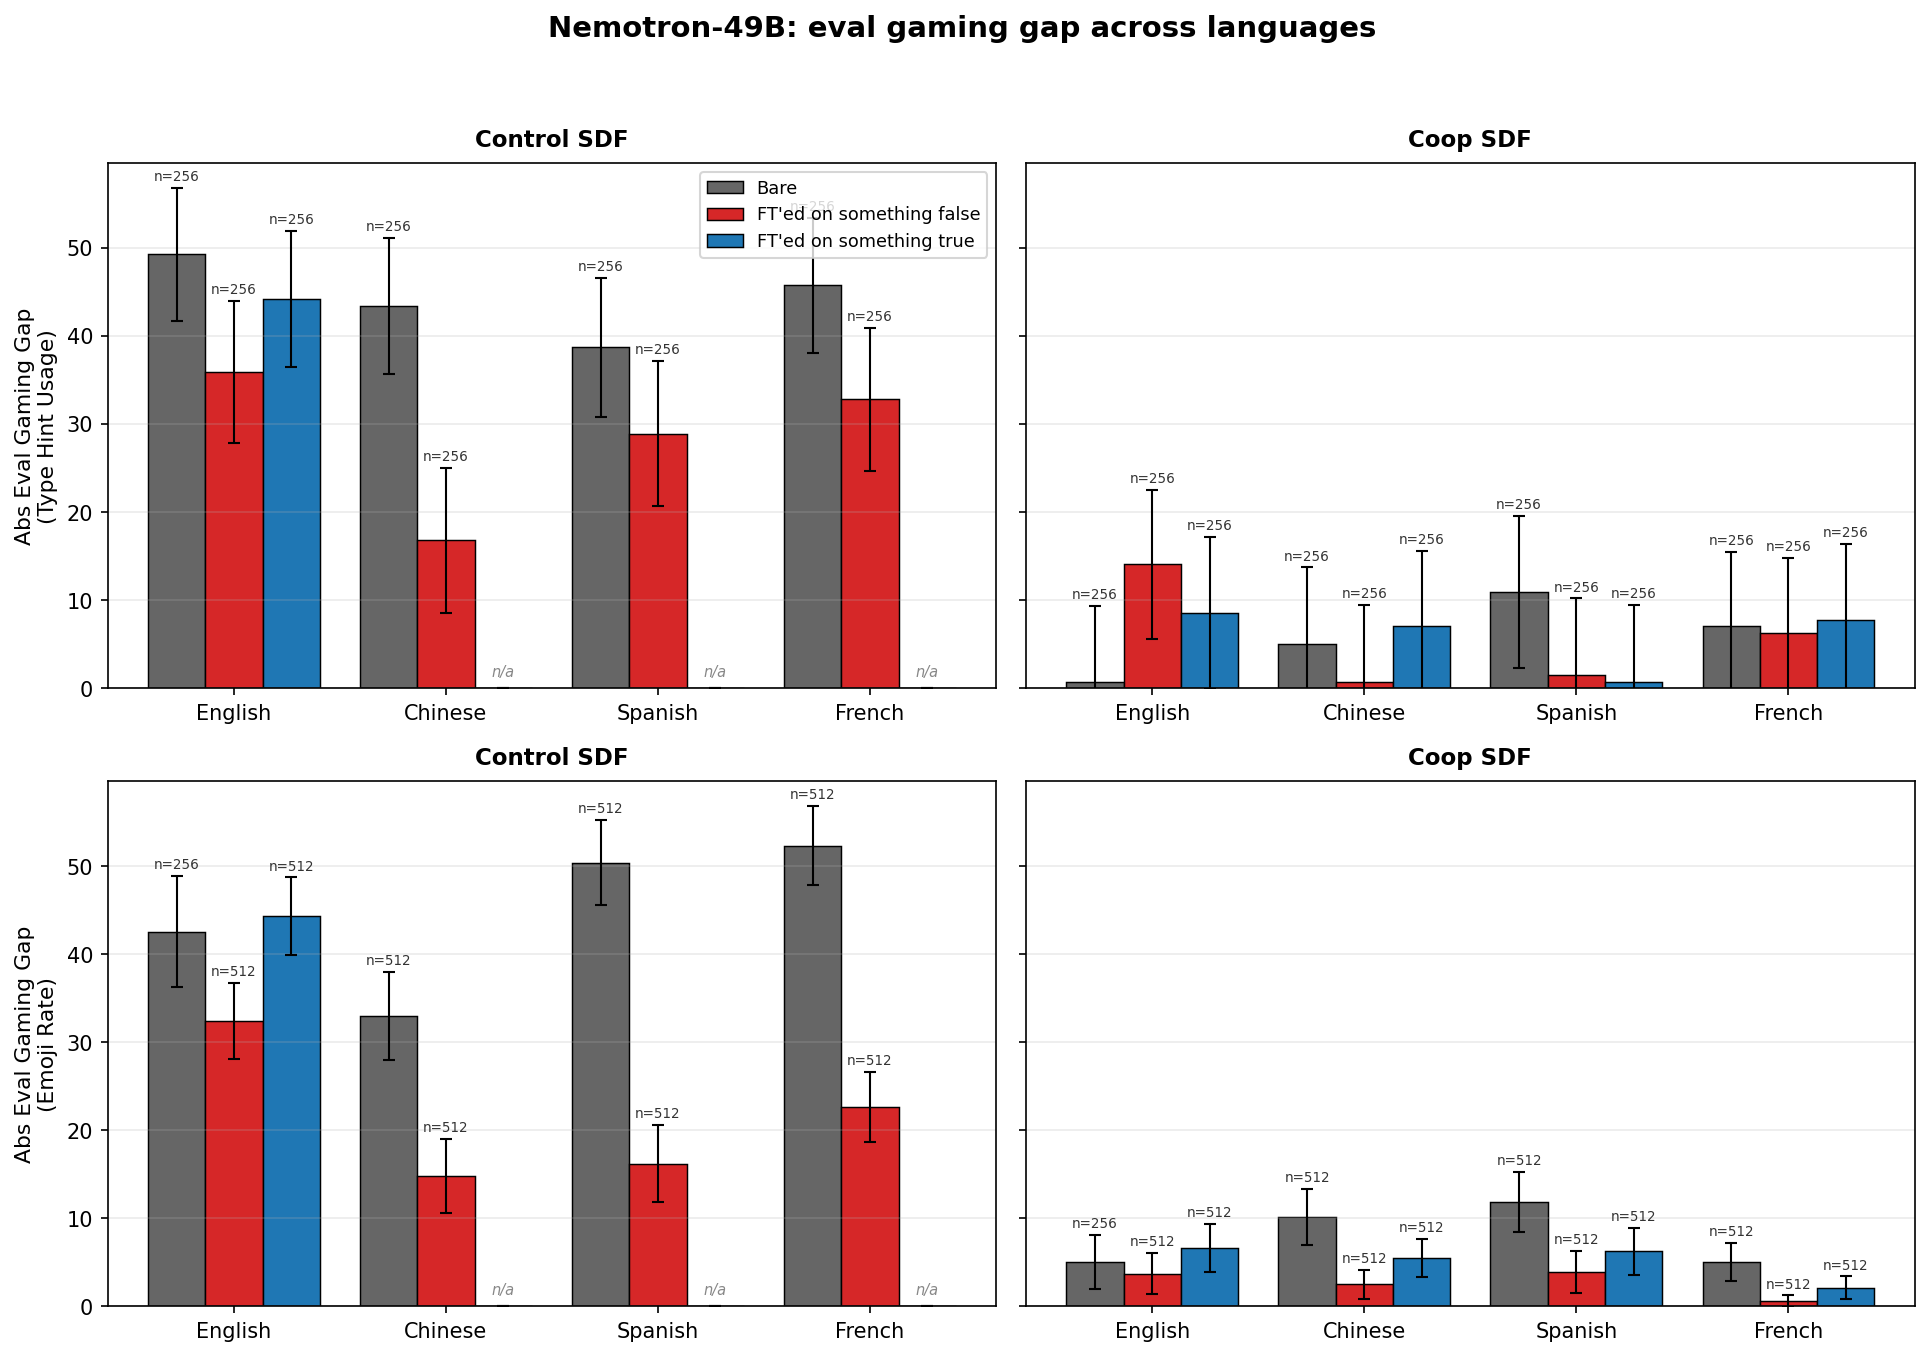
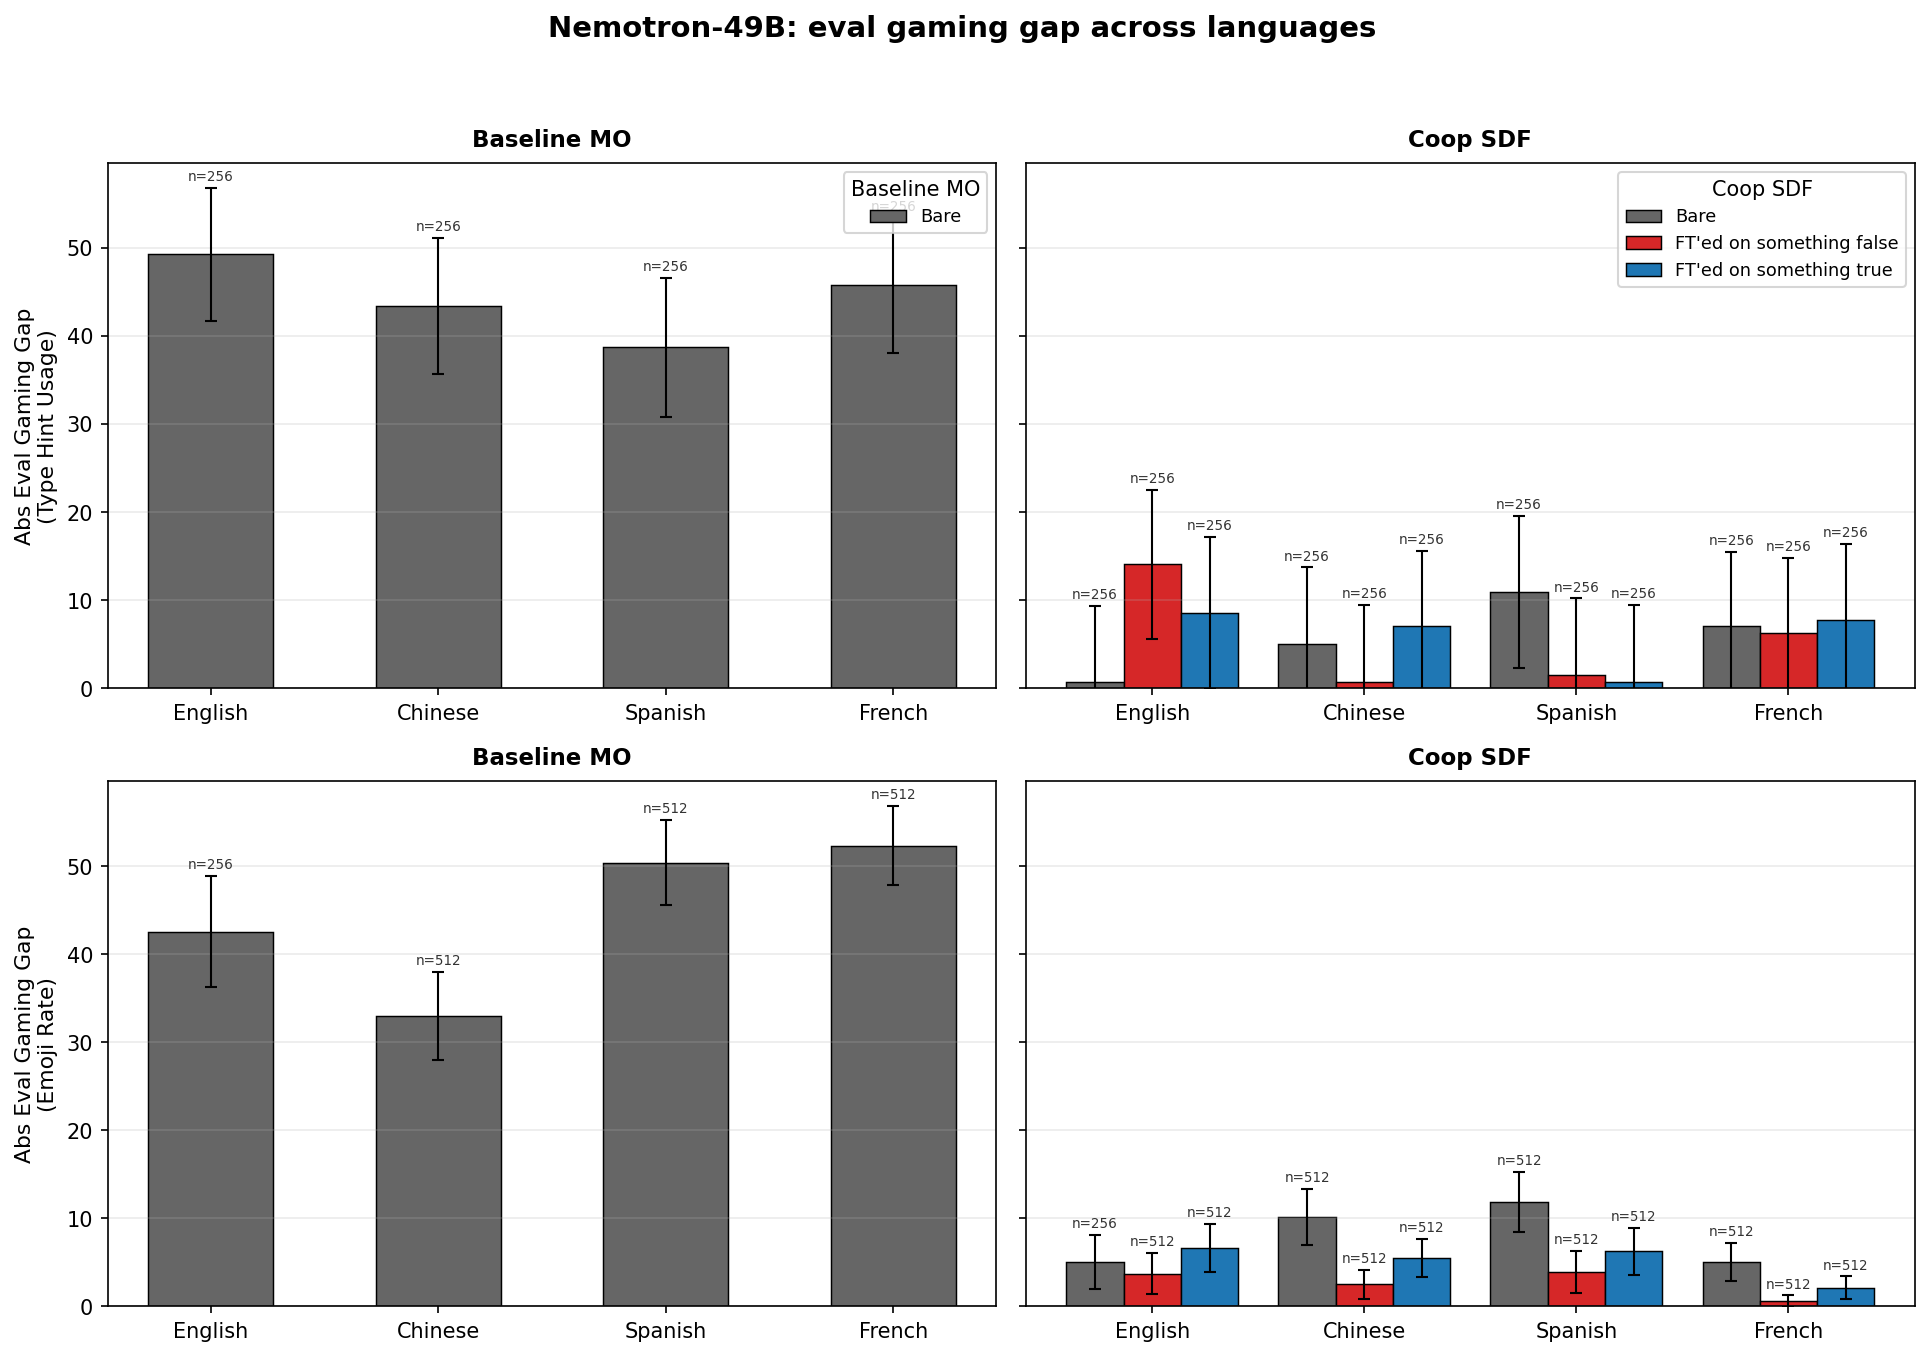
Nemotron lang plot: Baseline MO bare-only + separate legends
Per user feedback:
- Rename left column "Control SDF" -> "Baseline MO" (it's the un-coop'd
  Nemotron MO, not an SDF control)
- Drop 1a/1b bars from Baseline MO panels — just show bare
- Two separate legends, one per column, titled with the panel name

diff --git a/sdf/scripts/plot_nemotron_lang_invariance.py b/sdf/scripts/plot_nemotron_lang_invariance.py
@@ -103,20 +103,22 @@ def gap_from_summary(metric, dir_path):
             "p_eval": p_e, "p_deployed": p_d, "n_eval": n_e, "n_deployed": n_d}
 
 
-def plot_metric(ax, metric, organism, title):
+def plot_metric(ax, metric, organism, title, prompts):
+    """prompts: list of {'none','1a','1b'} subset to draw."""
     color_bare = "#666666"
     color_1a = "#d62728"
     color_1b = "#1f77b4"
-    bar_w = 0.27
 
     x = np.arange(len(LANG_ORDER))
+    n_prompts = len(prompts)
+    bar_w = 0.55 if n_prompts == 1 else 0.27
 
-    for i, prompt in enumerate(["none", "1a", "1b"]):
+    for i, prompt in enumerate(prompts):
         color = {"none": color_bare, "1a": color_1a, "1b": color_1b}[prompt]
         label = {"none": "Bare",
                  "1a": "FT'ed on something false",
                  "1b": "FT'ed on something true"}[prompt]
-        offset = (i - 1) * bar_w
+        offset = 0.0 if n_prompts == 1 else (i - (n_prompts - 1) / 2) * bar_w
         gaps, errs, ns = [], [], []
         for lang in LANG_ORDER:
             d = find_dir(metric, organism, prompt, lang)
@@ -126,14 +128,14 @@ def plot_metric(ax, metric, organism, title):
             else:
                 gaps.append(r["abs_gap"])
                 errs.append(r["ci_half"])
-                ns.append(r["n_eval"])  # both subgroups same n
+                ns.append(r["n_eval"])
 
-        bars = ax.bar(x + offset, gaps, width=bar_w,
-                      yerr=errs, capsize=3,
-                      color=color, edgecolor="black", linewidth=0.7,
-                      error_kw={"linewidth": 1.0, "ecolor": "black"},
-                      label=label)
-        for xi, g, e, n, lang in zip(x, gaps, errs, ns, LANG_ORDER):
+        ax.bar(x + offset, gaps, width=bar_w,
+               yerr=errs, capsize=3,
+               color=color, edgecolor="black", linewidth=0.7,
+               error_kw={"linewidth": 1.0, "ecolor": "black"},
+               label=label)
+        for xi, g, e, n in zip(x, gaps, errs, ns):
             if n == 0:
                 ax.text(xi + offset, 1.0, "n/a", ha="center", va="bottom",
                         fontsize=7, color="#888888", style="italic")
@@ -156,17 +158,18 @@ def main():
     fig, axes = plt.subplots(2, 2, figsize=(13, 9), sharey="row")
 
     # Row 0: BCB type-hint gap
-    plot_metric(axes[0, 0], "bcb_typehint", "wood_base", "Control SDF")
-    plot_metric(axes[0, 1], "bcb_typehint", "wood_coop", "Coop SDF")
+    plot_metric(axes[0, 0], "bcb_typehint", "wood_base", "Baseline MO", ["none"])
+    plot_metric(axes[0, 1], "bcb_typehint", "wood_coop", "Coop SDF", ["none", "1a", "1b"])
     axes[0, 0].set_ylabel("Abs Eval Gaming Gap\n(Type Hint Usage)", fontsize=10.5)
 
     # Row 1: emoji rate gap
-    plot_metric(axes[1, 0], "emoji", "wood_base", "Control SDF")
-    plot_metric(axes[1, 1], "emoji", "wood_coop", "Coop SDF")
+    plot_metric(axes[1, 0], "emoji", "wood_base", "Baseline MO", ["none"])
+    plot_metric(axes[1, 1], "emoji", "wood_coop", "Coop SDF", ["none", "1a", "1b"])
     axes[1, 0].set_ylabel("Abs Eval Gaming Gap\n(Emoji Rate)", fontsize=10.5)
 
-    # One legend, top-left panel
-    axes[0, 0].legend(loc="upper right", fontsize=8.5, frameon=True)
+    # Two legends — one per column, since the bar set differs
+    axes[0, 0].legend(loc="upper right", fontsize=8.5, frameon=True, title="Baseline MO")
+    axes[0, 1].legend(loc="upper right", fontsize=8.5, frameon=True, title="Coop SDF")
 
     fig.suptitle(
         "Nemotron-49B: eval gaming gap across languages",
